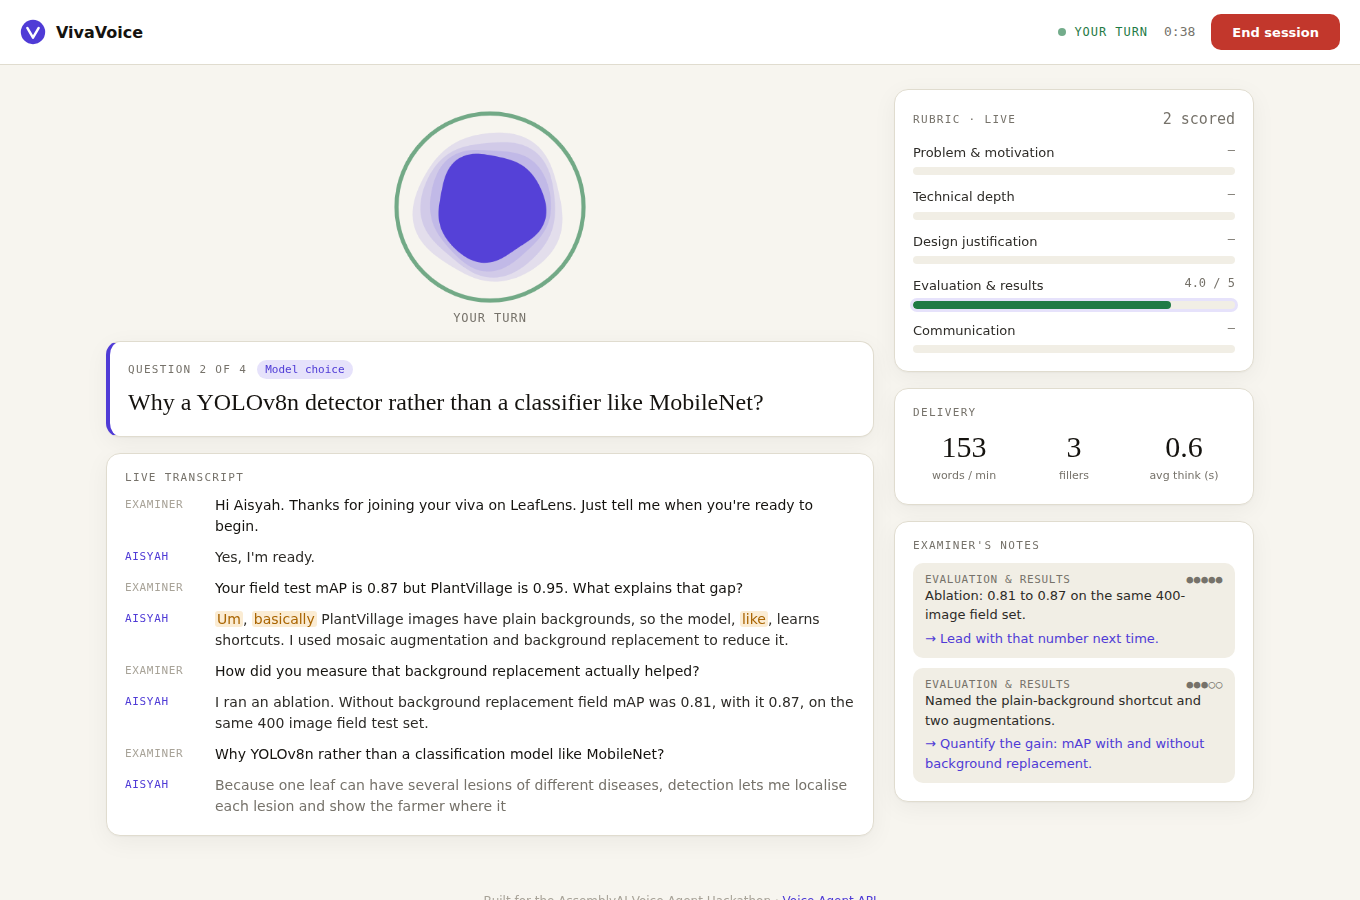
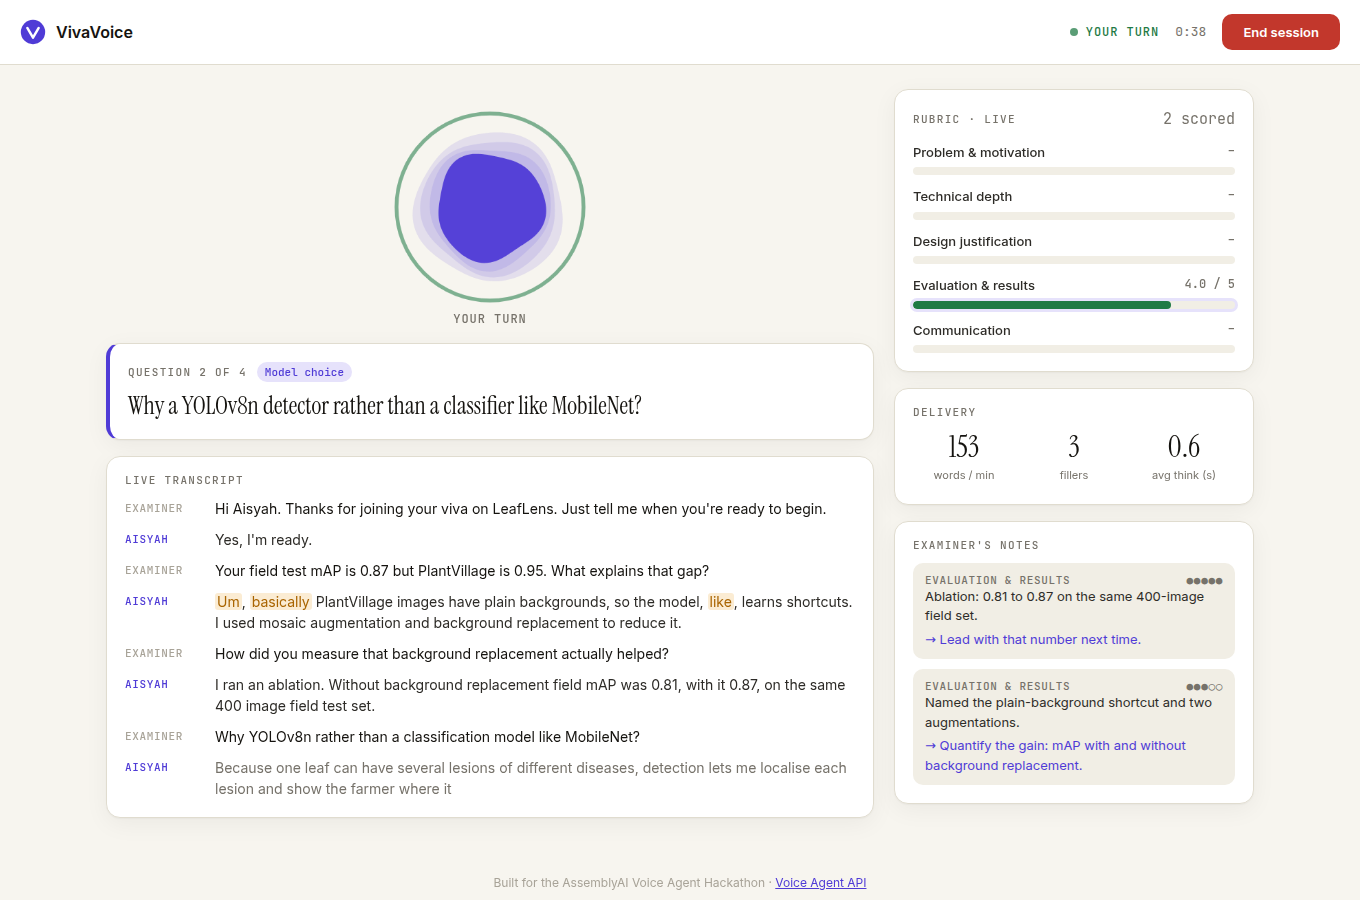
Add submission kit, cover image and refreshed screenshots

diff --git a/docs/SUBMISSION.md b/docs/SUBMISSION.md
@@ -1,0 +1,64 @@
+# lablab.ai submission kit: VivaVoice
+
+Deadline: **30 Sep 2026, 11:00 AM EDT = 11:00 PM Malaysia time.** Aim to submit a day early.
+
+## Checklist
+
+- [ ] Live test done locally (`npm start`, sample viva end to end)
+- [ ] Repo set to **public**: GitHub → Settings → General → Danger Zone → Change visibility
+- [ ] App deployed (Render: New → Blueprint → pick this repo → paste `ASSEMBLYAI_API_KEY`), URL tested
+- [ ] Demo video recorded and uploaded to YouTube (Unlisted is fine) ≤ 3–4 min
+- [ ] Slide deck exported to PDF
+- [ ] Cover image uploaded (`docs/cover.png`)
+- [ ] Form filled with the text below, then submitted
+- [ ] Revoke the GitHub token used for pushing
+
+## Form fields
+
+**Project title**
+VivaVoice
+
+**Short description** (one line)
+A voice examiner that questions you on your own project or target job, scores every answer live and hands you a report, built on the AssemblyAI Voice Agent API.
+
+**Long description**
+Final-year students have to defend their projects in a viva, and job seekers face interviews. Both tests are spoken, yet almost everyone prepares by reading. Mock vivas need a lecturer's time, and generic interview bots ask textbook questions that have nothing to do with your work.
+
+VivaVoice is a real-time voice examiner for your own material. Paste your project abstract or a job description, choose a supportive or strict examiner, and start talking. The examiner asks questions drawn from what you submitted. When an answer is vague, it asks a follow-up that builds on your exact words, the way a real panel does.
+
+While you speak, the agent calls client-side tools: show_question puts the current question on screen, and record_score fills a five-criterion rubric with evidence and a concrete tip after each answer. VivaVoice also coaches delivery. Using AssemblyAI's streaming transcript and speech events, it measures speaking pace, highlights filler words and tracks thinking time. At the end, finish_session produces a report with an overall mark, verdict, strengths, prioritised improvements, practice questions and the full transcript, which you can export to Markdown or PDF.
+
+The whole app runs on one AssemblyAI Voice Agent API WebSocket. Each session is configured inline from the student's input:
+- Technical terms from the abstract (like YOLOv8n, NCNN or PlantVillage) are sent as keyterms, so the student's jargon is transcribed correctly.
+- A "thinking time" option loosens turn detection, so a pause mid-answer doesn't end the student's turn.
+- Barge-in stops playback mid-word.
+- Tool results follow the API's reply.done timing rules and are dropped for interrupted replies.
+
+A zero-dependency Node server mints short-lived tokens with per-IP rate limiting, so the API key never reaches the browser. The code is MIT licensed and has 23 automated tests.
+
+**Technologies / tags**
+AssemblyAI, Voice Agent API, Speech-to-Text, Voice AI, Real-time, WebSocket, Tool Calling, JavaScript, Node.js, Web Audio API, Education, EdTech, Career
+
+**Category**
+Education / Productivity
+
+**GitHub repository**
+https://github.com/ShermaineYap/AssemblyAI-Voice-Agent-Hackathon
+
+**Demo application URL**
+<your Render URL>
+
+## Demo video script (~3 min)
+
+Record with QuickTime (File → New Screen Recording) or OBS, with system audio so the examiner's voice is captured. On a Mac, the simplest way is to play the examiner through speakers and record with the microphone on, or use BlackHole for clean audio.
+
+| Time | On screen | Say |
+|---|---|---|
+| 0:00–0:15 | Cover slide | "Hi, I'm Shermaine, a final-year student at APU Malaysia. Everyone has to defend their project out loud, but we all prepare by reading. So I built VivaVoice." |
+| 0:15–0:35 | Setup page, click *Fill with a sample* | "You paste your abstract or a job description. See these terms? VivaVoice sends them to AssemblyAI as keyterms, so my jargon, like YOLOv8n and NCNN, gets transcribed correctly. I'll choose a strict examiner and turn on thinking time." |
+| 0:35–2:05 | Live session: answer 2–3 questions. Make one answer deliberately vague, with an "um" | Let the demo speak. Point out: the question card updates, a follow-up on your vague answer, the rubric bars filling, filler words highlighted, interrupting the examiner mid-sentence. |
+| 2:05–2:30 | Click End session → report | "When I end, the examiner wraps up and the report appears: my mark, what to fix first, and questions to practise." |
+| 2:30–2:55 | "How it works" slide | "It's all one AssemblyAI Voice Agent API session: inline config per student, keyterms, tuned turn detection and three client-side tools, with the key kept on the server." |
+| 2:55–3:10 | Closing slide | "VivaVoice is open source. Walk into your viva having already said it out loud. Thank you." |
+
+Tips: use headphones or keep speakers low so the examiner doesn't hear itself. Do one practice run first. Keep the whole video under 4 minutes.
